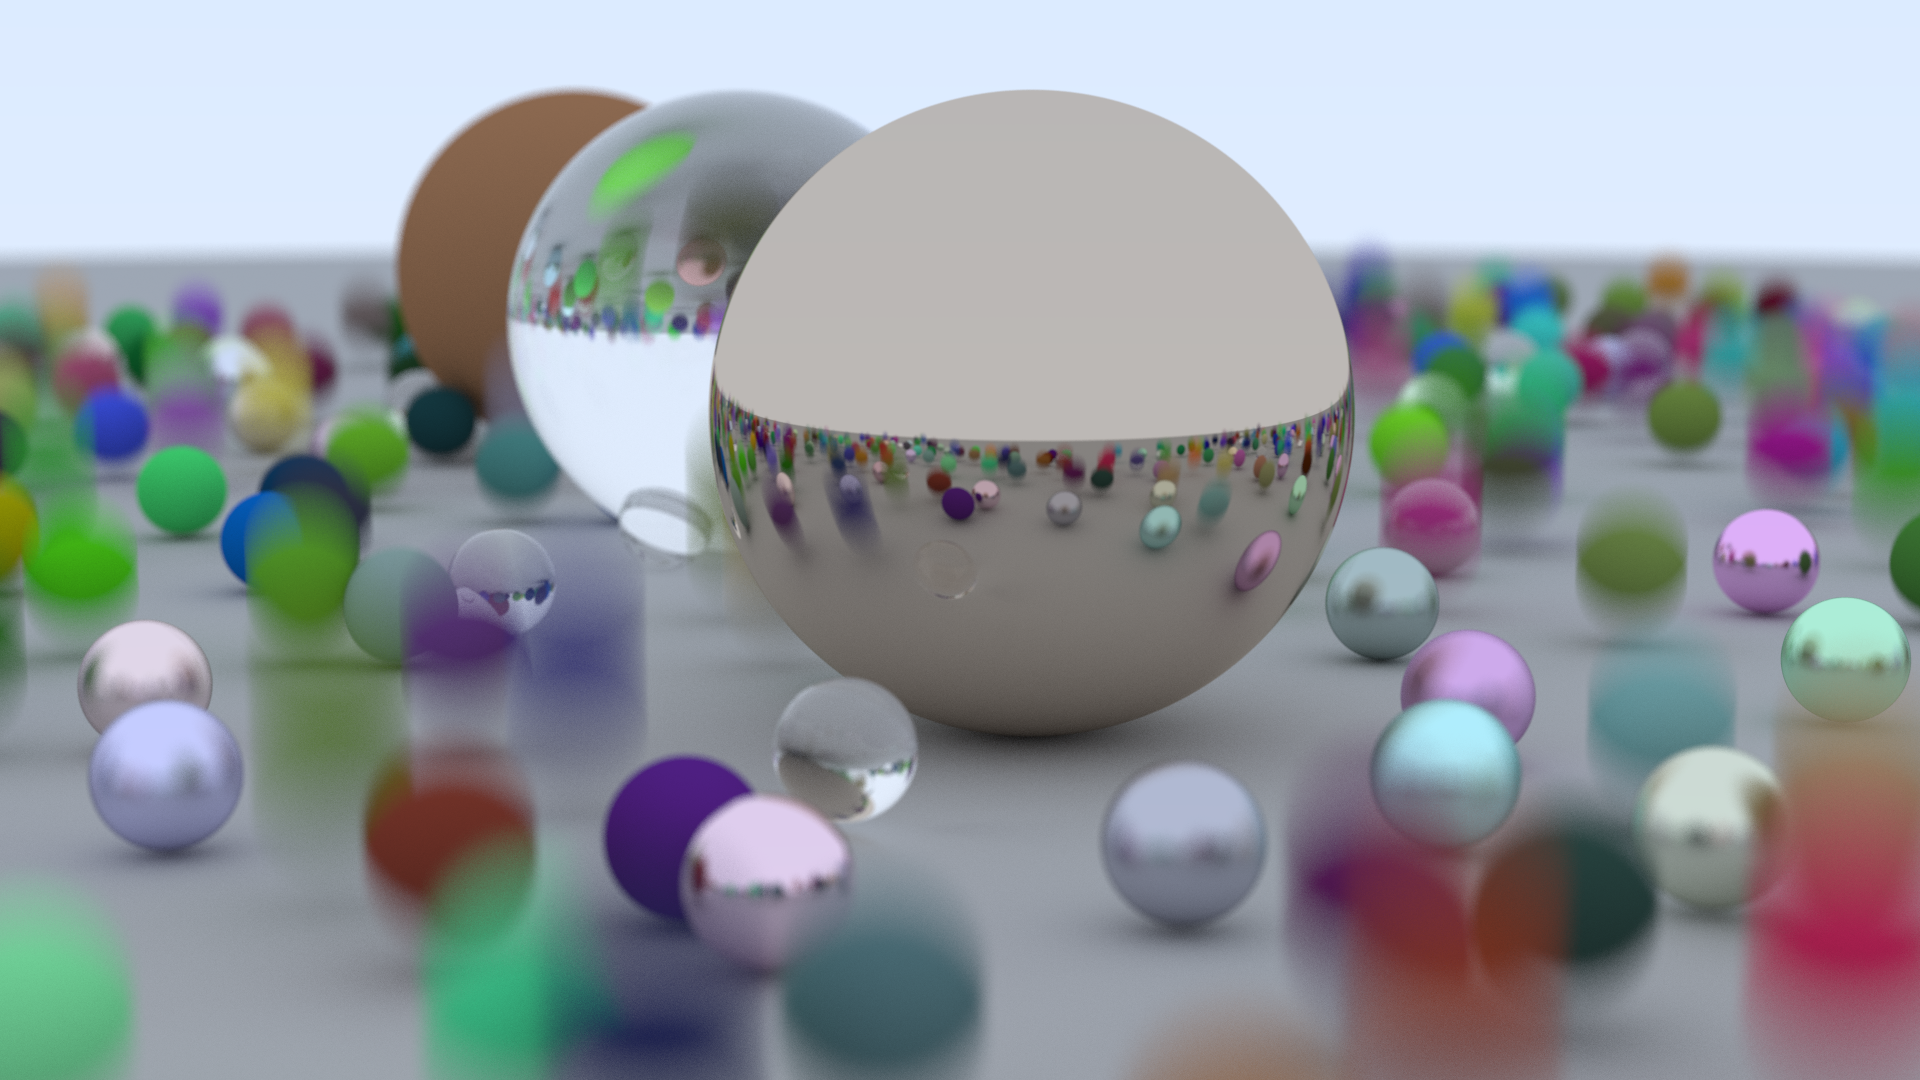
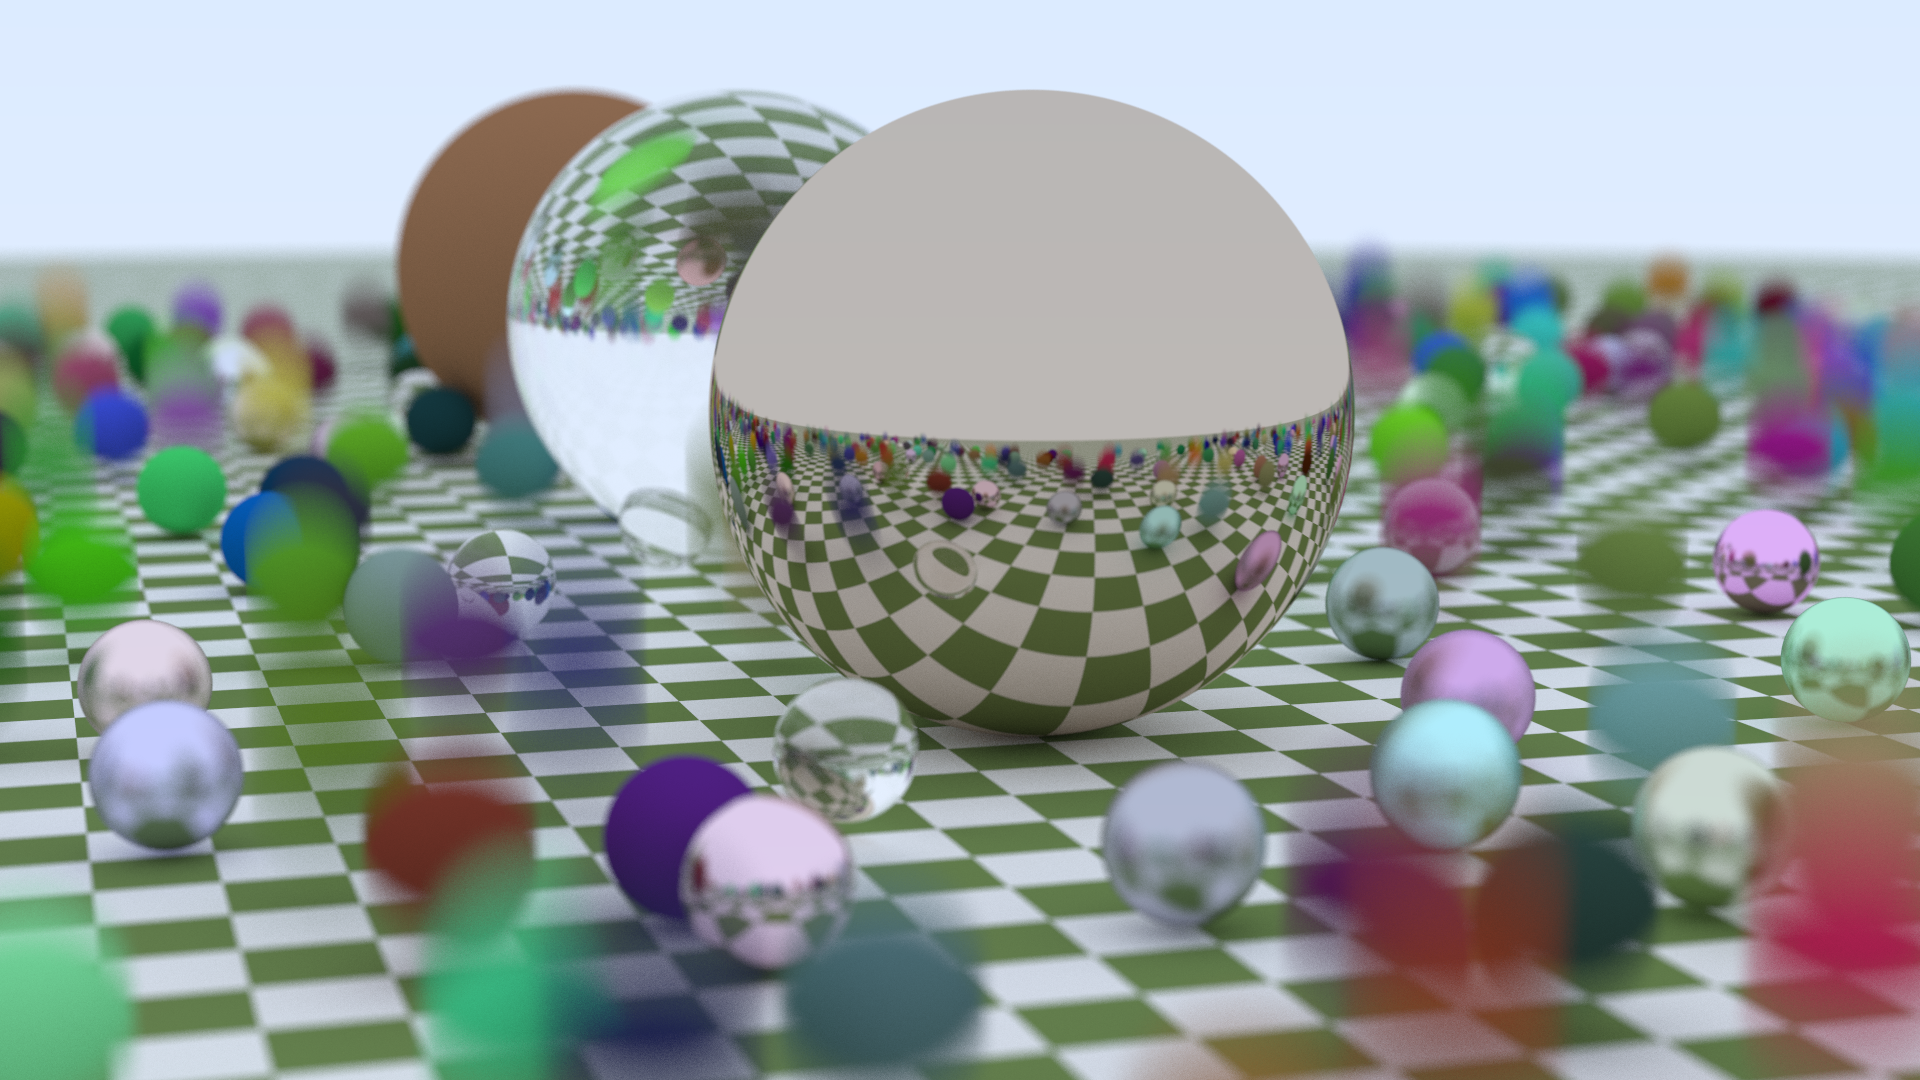
Spheres on checkered ground

diff --git a/texture.h b/texture.h
@@ -1,0 +1,51 @@
+#ifndef TEXTURE_H
+#define TEXTURE_H
+
+#include "rt_constants.h"
+
+class texture {
+public:
+    virtual ~texture() = default;
+
+    __device__ virtual color value(float u, float v, const point3 &p) const = 0;
+};
+
+class solid_color : public texture {
+public:
+    __device__ solid_color(const color &albedo) : albedo(albedo) {}
+
+    __device__ solid_color(float red, float green, float blue) : solid_color(color(red, green, blue)) {}
+
+    __device__ color value(float u, float v, const point3 &p) const override {
+        return albedo;
+    }
+
+private:
+    color albedo;
+};
+
+class checker_texture : public texture {
+public:
+    __device__ checker_texture(float scale, texture* even, texture* odd) : inv_scale(1.0f / scale),
+                                                                                        even(even), odd(odd) {}
+
+    __device__ checker_texture(float scale, const color &c1, const color &c2) : checker_texture(scale,
+                                                                                     new solid_color(c1),
+                                                                                     new solid_color(c2)) {}
+
+    __device__ color value(float u, float v, const point3 &p) const override {
+        auto xInteger = int(std::floor(inv_scale * p.x()));
+        auto yInteger = int(std::floor(inv_scale * p.y()));
+        auto zInteger = int(std::floor(inv_scale * p.z()));
+
+        bool isEven = (xInteger + yInteger + zInteger) % 2 == 0;
+        return isEven ? even->value(u, v, p) : odd->value(u, v, p);
+    }
+
+private:
+    float inv_scale;
+    texture* even;
+    texture* odd;
+};
+
+#endif // TEXTURE_H

diff --git a/material.h b/material.h
@@ -16,8 +16,12 @@ public:
 // 漫反射材质
 class lambertian : public material {
 public:
-    __device__ lambertian(const color &albedo) : albedo(albedo) {
+    __device__ lambertian(const color &albedo) : tex(new solid_color(albedo)) {
     }
+
+    __device__ lambertian(texture *tex) : tex(tex) {
+    }
+
 
     __device__ bool scatter(const ray &r_in, const hit_record &rec, color &attenuation, ray &scattered,
                             curandState &rand_state)
@@ -32,12 +36,12 @@ public:
             scatter_direction = rec.normal;
 
         scattered = ray(rec.p, scatter_direction, r_in.time());
-        attenuation = albedo;
+        attenuation = tex->value(rec.u, rec.v, rec.p);
         return true;
     }
 
 private:
-    color albedo;
+    texture *tex;
 };
 
 // 金属材质

diff --git a/hittable.h b/hittable.h
@@ -2,6 +2,7 @@
 #define HITTABLE_H
 
 #include "rt_constants.h"
+#include "texture.h"
 
 // hittable.h 和 material.h 构成循环依赖，使用前向声明
 class material;
@@ -12,6 +13,8 @@ public:
     vec3 normal; // 法向量，这里定义其方向总是与光线方向相反
     material *mat; // 物体材质，前向声明必须使用指针
     float t; // 与光源的距离
+    float u; // uv坐标
+    float v; // uv坐标
     bool front_face; // true 代表光源在球面外部
 
     __device__ void set_face_normal(const ray &r, const vec3 &outward_normal) {
